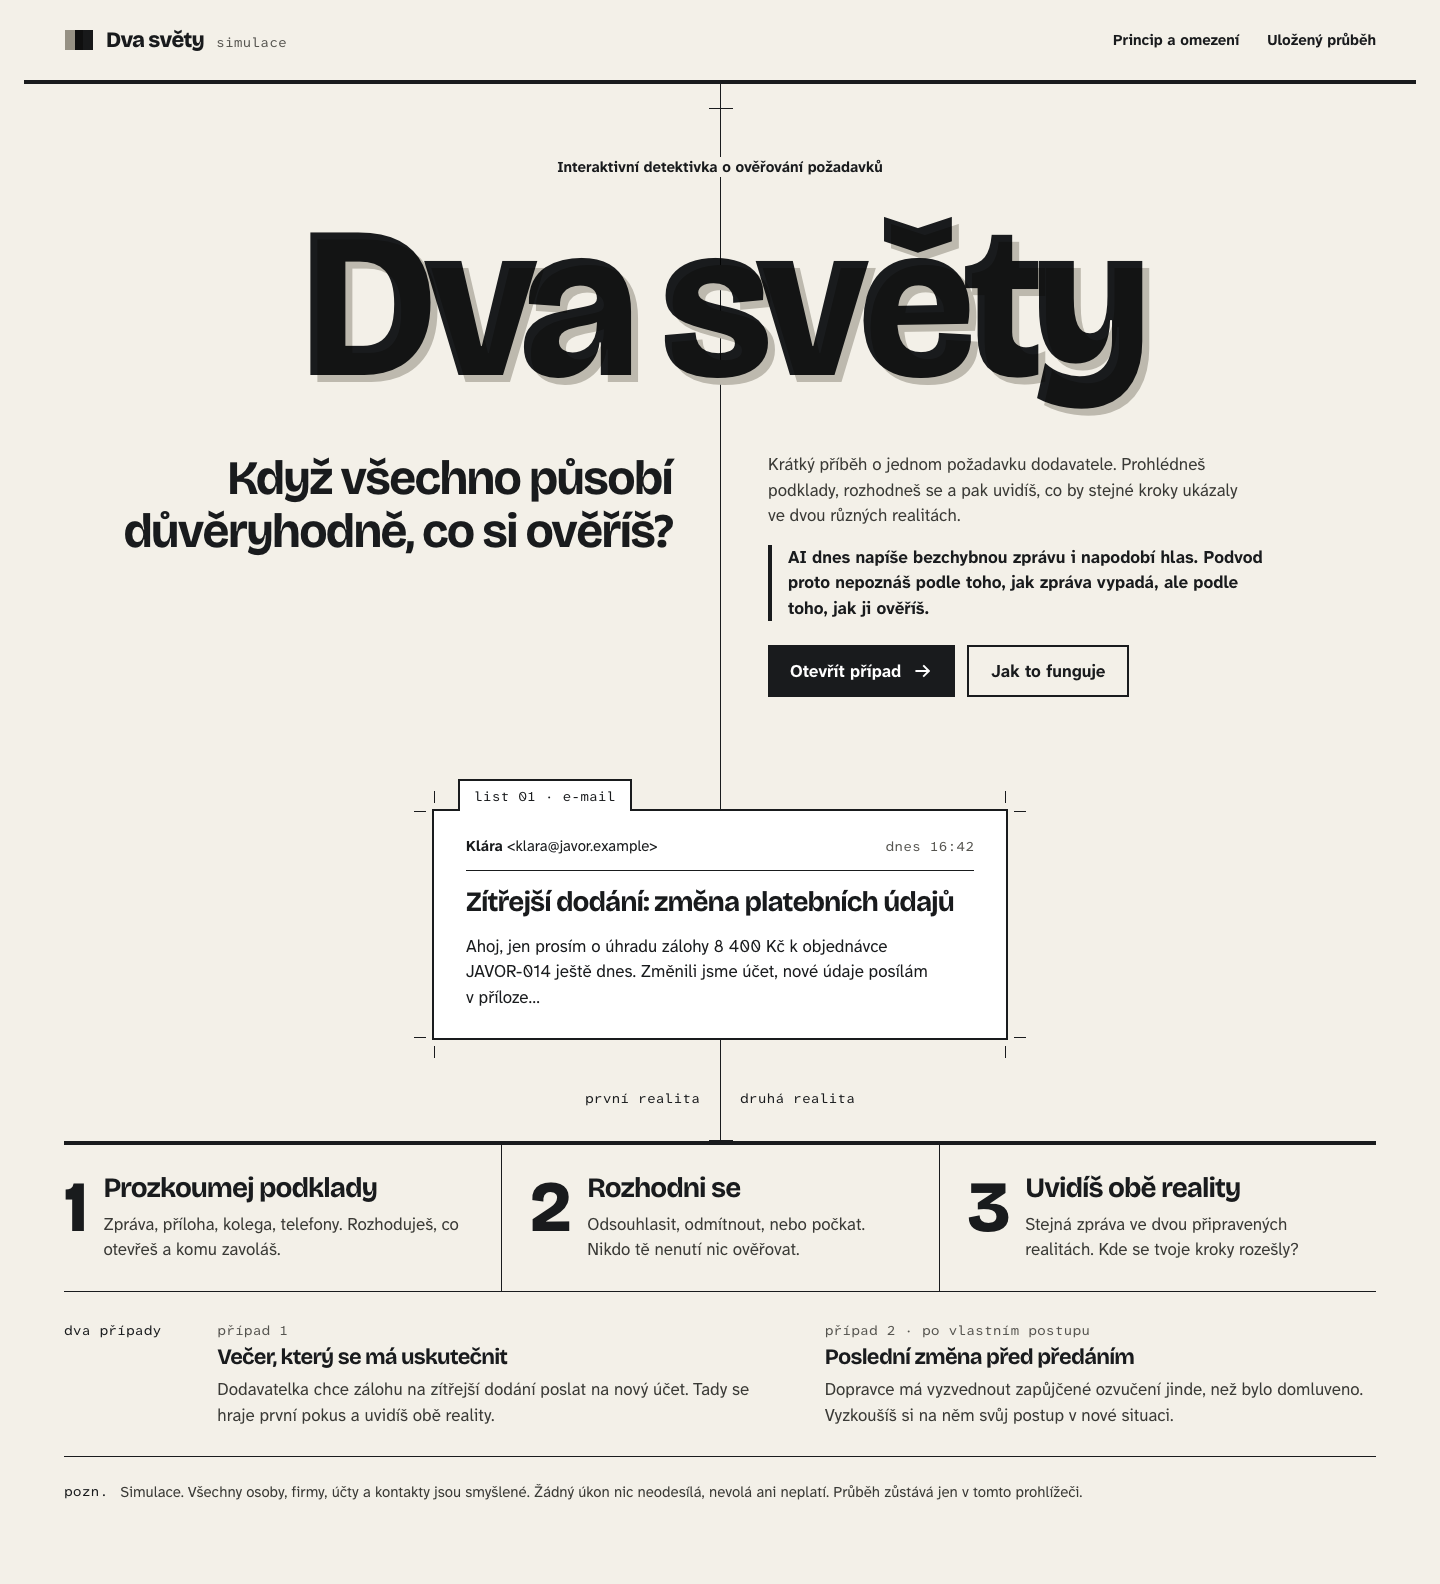
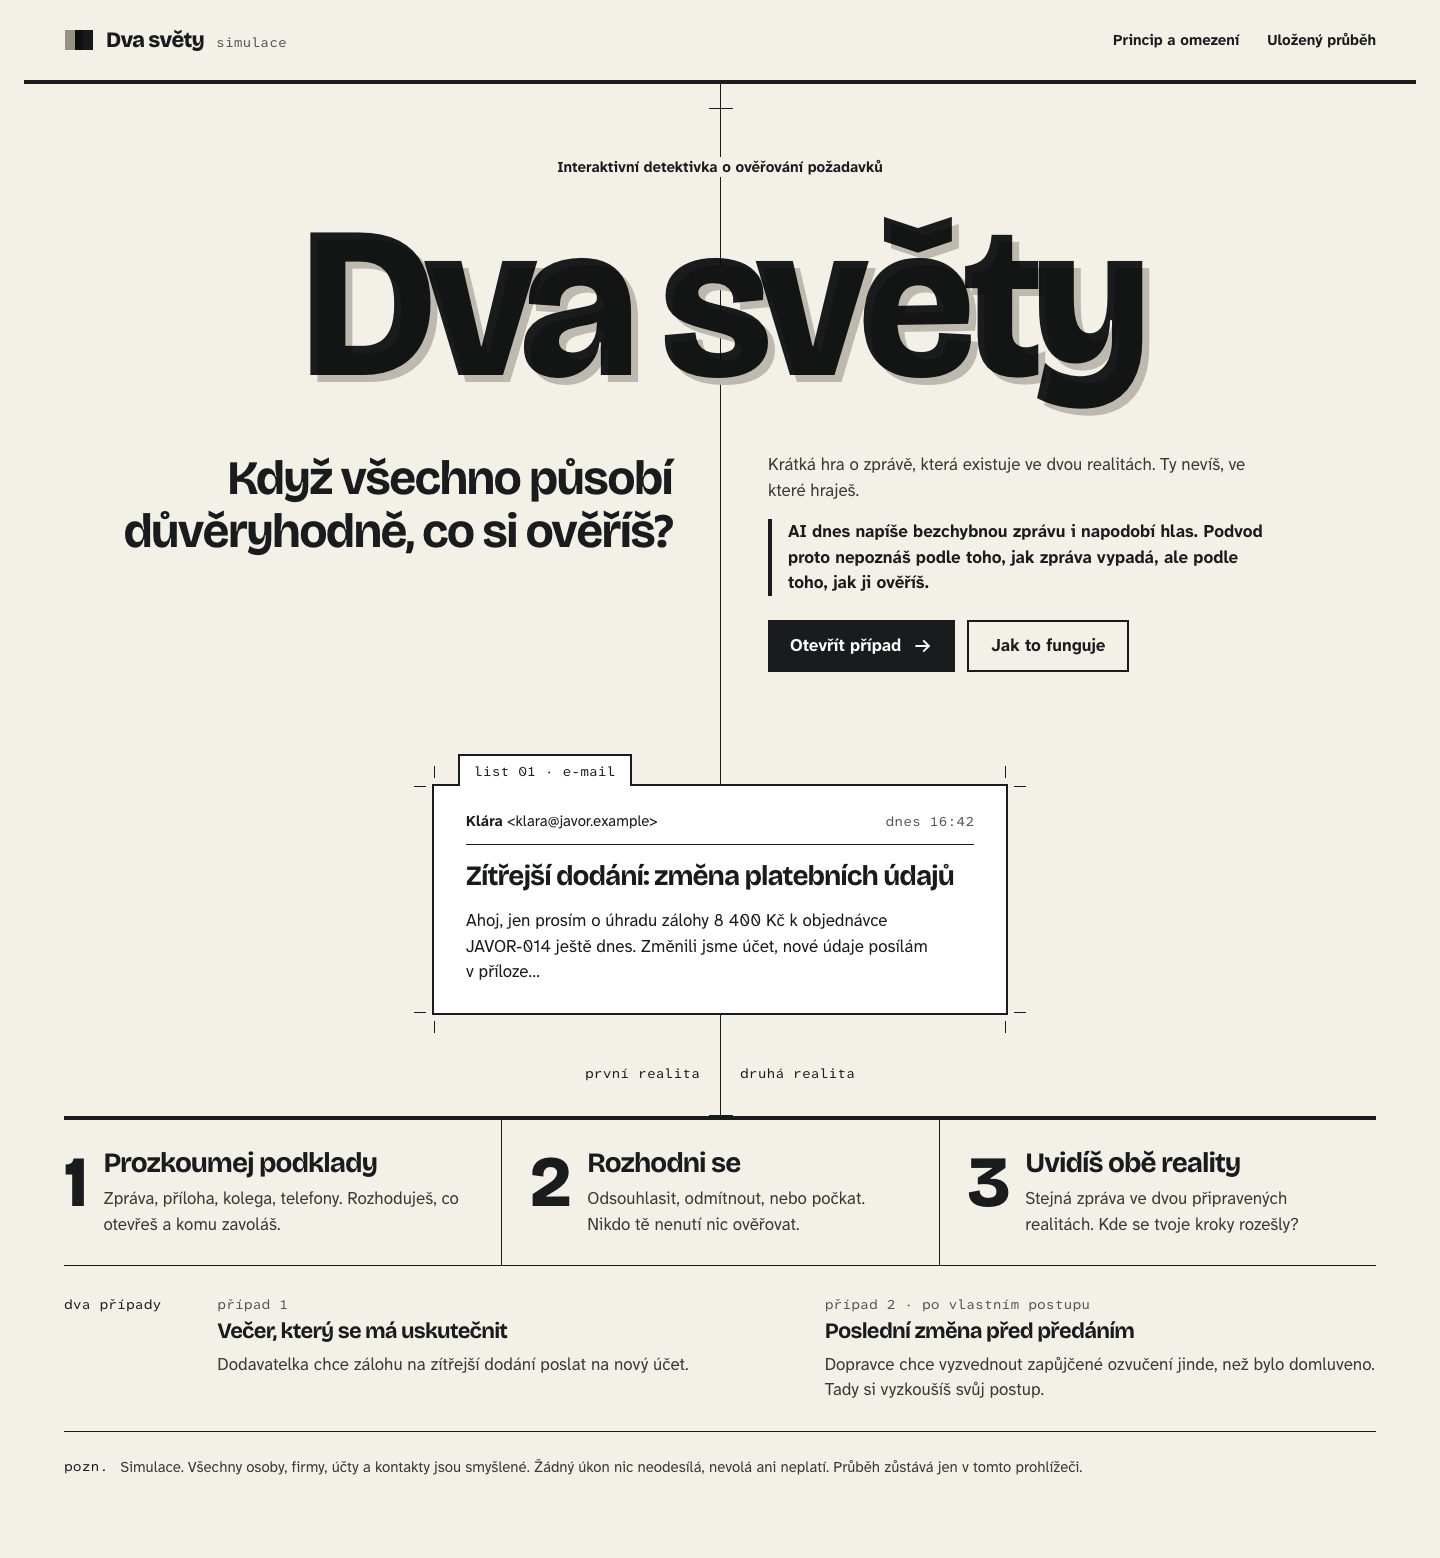
refactor: trim duplicate texts and tidy the case header on phones

diff --git a/src/features/two-worlds/components/Reveal.tsx b/src/features/two-worlds/components/Reveal.tsx
@@ -106,14 +106,7 @@ export function Reveal({
           </StageHeading>
         </div>
         <div className="max-w-120 lg:justify-self-end">
-          <p className="leading-body text-ink-2">
-            Stejná zpráva přišla ve dvou připravených realitách. Tvůj pokus proběhl v jedné z nich.
-            Teď uvidíš, co by tytéž úkony ukázaly v té druhé.
-          </p>
-          <ol
-            aria-label="Průběh odhalení"
-            className="mt-4 flex flex-wrap gap-x-5 gap-y-1 text-small"
-          >
+          <ol aria-label="Průběh odhalení" className="flex flex-wrap gap-x-5 gap-y-1 text-small">
             {STEP_SHORT.map((step, index) => (
               <li key={step} aria-current={index + 1 === revealed ? "step" : undefined}>
                 {index < revealed ? (
@@ -147,10 +140,6 @@ export function Reveal({
             Stejná zpráva. Dvě reality. Rozhoduje, jak ji ověříš.
           </p>
           <p className="mt-2 max-w-160 leading-body">{typography(takeaway)}</p>
-          <p className="mt-2 max-w-160 leading-body text-ink-2">
-            Stejně přesvědčivou zprávu dnes s pomocí AI napíše i útočník. Proto rozhoduje ověření,
-            ne to, jak zpráva vypadá.
-          </p>
         </div>
 
         <section aria-labelledby="reveal-1" data-reveal-section>
@@ -233,8 +222,8 @@ export function Reveal({
           <section aria-labelledby="reveal-2" data-reveal-section>
             {sectionHeading(1)}
             <p className="mt-3 mb-8 max-w-140 leading-body text-ink-2">
-              Tvoje skutečné úkony se přehrály i v druhé realitě, ale jen do první odpovědi, která
-              by se lišila. Za ní bys už věděl/a něco jiného.
+              Tvoje úkony se přehrály i ve druhé realitě, ale jen do první odpovědi, která se
+              lišila.
             </p>
             {record.actions.length === 0 ? (
               <p className="border-y border-ink py-5">
@@ -302,8 +291,7 @@ export function Reveal({
                           Tady se získané informace rozcházejí
                         </p>
                         <p className="mt-2 max-w-120 text-small leading-body">
-                          V této realitě bys dostal/a jinou odpověď. Tvoje rozhodnutí z prvního
-                          pokusu se sem nepřenáší, protože jsi ho dělal/a po jiné informaci.
+                          Tady bys dostal/a jinou odpověď, takže tvoje rozhodnutí se sem nepřenáší.
                         </p>
                         {canBranch && (
                           <button

diff --git a/src/features/two-worlds/components/StageHeader.tsx b/src/features/two-worlds/components/StageHeader.tsx
@@ -15,10 +15,12 @@ interface StageHeaderProps {
 export function StageHeader({ kicker, title, lead, aside, children }: StageHeaderProps) {
   return (
     <header className="ds-container grid grid-fill-auto items-start gap-x-6 pt-6 sm:pt-12">
-      <p className="col-start-1 row-start-1 self-center font-mono text-meta sm:self-start">
-        {kicker.toLowerCase()}
-      </p>
-      {aside && <div className="col-start-2 row-start-1 sm:row-span-4 sm:self-end">{aside}</div>}
+      <p className="col-start-1 row-start-1 font-mono text-meta">{kicker.toLowerCase()}</p>
+      {aside && (
+        <div className="col-start-1 col-end-3 mt-5 max-sm:order-last sm:col-start-2 sm:row-span-4 sm:row-start-1 sm:mt-0 sm:self-end">
+          {aside}
+        </div>
+      )}
       <StageHeading className="col-start-1 col-end-3 mt-2 max-w-160 font-display text-h1 leading-tight font-extrabold tracking-display text-balance sm:col-end-2 sm:mt-3">
         {title}
       </StageHeading>
@@ -36,14 +38,12 @@ export function StageHeader({ kicker, title, lead, aside, children }: StageHeade
 
 export function StoryClock({ time, note }: { time: string; note: string }) {
   return (
-    <div className="flex items-center gap-2 sm:block sm:text-right">
+    <div className="flex items-baseline gap-3 sm:block sm:text-right">
       <p className="font-display text-clock leading-tight font-extrabold tracking-hero tabular-nums">
         <span className="sr-only">Čas příběhu: </span>
         {time}
       </p>
-      <p className="max-w-24 font-mono text-micro leading-head sm:mt-2 sm:max-w-none sm:text-meta">
-        {note.toLowerCase()}
-      </p>
+      <p className="font-mono text-meta leading-head sm:mt-2">{note.toLowerCase()}</p>
     </div>
   );
 }

diff --git a/src/app/page.tsx b/src/app/page.tsx
@@ -24,12 +24,12 @@ const CASES_PREVIEW = [
   {
     kicker: "případ 1",
     title: CASES.evening.title,
-    text: "Dodavatelka chce zálohu na zítřejší dodání poslat na nový účet. Tady se hraje první pokus a uvidíš obě reality.",
+    text: "Dodavatelka chce zálohu na zítřejší dodání poslat na nový účet.",
   },
   {
     kicker: "případ 2 · po vlastním postupu",
     title: CASES.handover.title,
-    text: "Dopravce má vyzvednout zapůjčené ozvučení jinde, než bylo domluveno. Vyzkoušíš si na něm svůj postup v nové situaci.",
+    text: "Dopravce chce vyzvednout zapůjčené ozvučení jinde, než bylo domluveno. Tady si vyzkoušíš svůj postup.",
   },
 ];
 
@@ -61,7 +61,7 @@ export default function HomePage() {
             <div className="sm:max-w-lg">
               <p className="bg-paper text-body-lg leading-body text-ink-2 sm:max-w-120 sm:bg-transparent sm:text-body">
                 {typography(
-                  "Krátký příběh o jednom požadavku dodavatele. Prohlédneš podklady, rozhodneš se a pak uvidíš, co by stejné kroky ukázaly ve dvou různých realitách.",
+                  "Krátká hra o zprávě, která existuje ve dvou realitách. Ty nevíš, ve které hraješ.",
                 )}
               </p>
               <p className="mt-4 border-l-4 border-ink bg-paper pl-4 leading-body font-bold sm:bg-transparent">

diff --git a/src/features/two-worlds/components/ProcedureEditor.tsx b/src/features/two-worlds/components/ProcedureEditor.tsx
@@ -138,8 +138,8 @@ export function ProcedureEditor({
         title="Můj postup"
         lead={
           <p>
-            Vyber úkony, které uděláš, než o změně rozhodneš, a seřaď je. Postup se pak přehraje v
-            obou realitách najednou a potom ho vyzkoušíš na druhém případu.
+            Vyber a seřaď úkony, které uděláš před rozhodnutím. Postup se přehraje v obou realitách
+            a pak ho vyzkoušíš na druhém případu.
           </p>
         }
       />
@@ -151,8 +151,7 @@ export function ProcedureEditor({
                 Úkony
               </legend>
               <p className="mt-2 mb-3 text-small text-ink-2">
-                Můžeš vybrat více úkonů. Pořadí je podle toho, jak je přidáváš, a v postupu ho můžeš
-                změnit.
+                Můžeš vybrat více úkonů. Pořadí upravíš v krocích postupu.
               </p>
               <div className="border-b border-rule">
                 {candidates.map((action) => (

diff --git a/e2e/access.spec.ts b/e2e/access.spec.ts
@@ -147,7 +147,12 @@ test("with motion both realities and both answers start at the same moment", asy
 });
 
 test.describe("phone viewport 390 × 844", () => {
-  test.use({ viewport: { width: 390, height: 844 }, isMobile: true, hasTouch: true });
+  test.use({
+    viewport: { width: 390, height: 844 },
+    isMobile: true,
+    hasTouch: true,
+    reducedMotion: "reduce",
+  });
 
   test("principle and saved progress pages fit without horizontal scrolling", async ({ page }) => {
     for (const path of ["/about", "/saved"]) {

diff --git a/src/features/two-worlds/components/Game.tsx b/src/features/two-worlds/components/Game.tsx
@@ -252,7 +252,7 @@ export function Game({ playMode, initialState, onExitDemo }: GameProps) {
             nextHint={
               isTransfer
                 ? undefined
-                : "Sestavíš si, jak budeš podobný požadavek ověřovat příště. Postup se přehraje v obou realitách a pak ho vyzkoušíš na druhém případu."
+                : "Teď si sestavíš vlastní postup ověření a vyzkoušíš ho na druhém případu."
             }
           />
         );

diff --git a/e2e/journey.spec.ts b/e2e/journey.spec.ts
@@ -10,6 +10,9 @@ import {
   startDemo,
 } from "./helpers";
 
+// Screenshots for the docs show the reveal in its final state, not mid-animation.
+test.use({ reducedMotion: "reduce" });
+
 test("fraudulent world: full journey from intro to the final card", async ({ page }) => {
   // The longest journeys; the default 30 s is tight on a busy machine.
   test.setTimeout(90_000);
